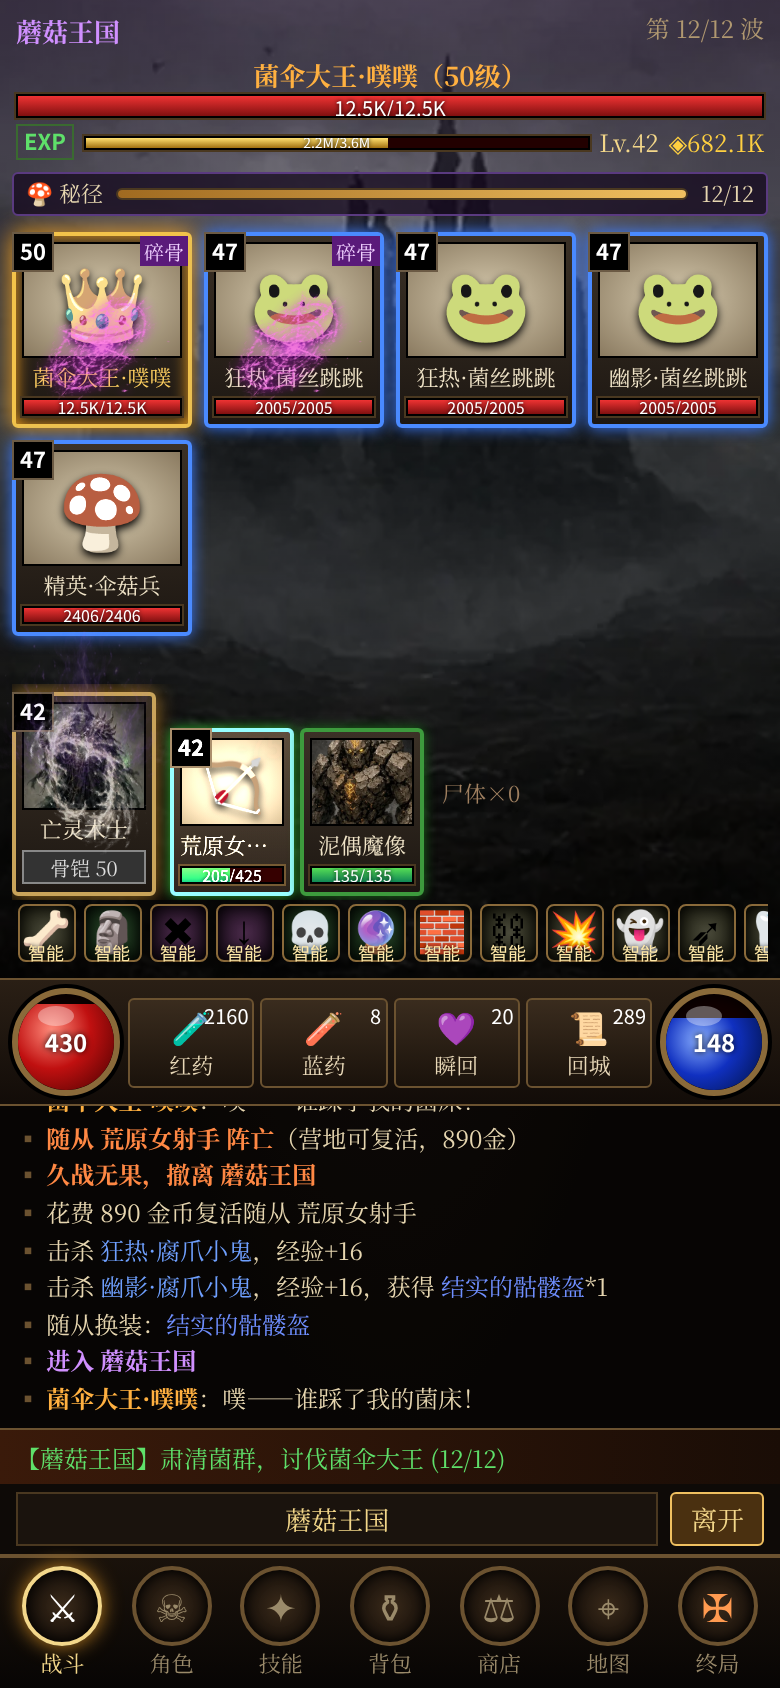
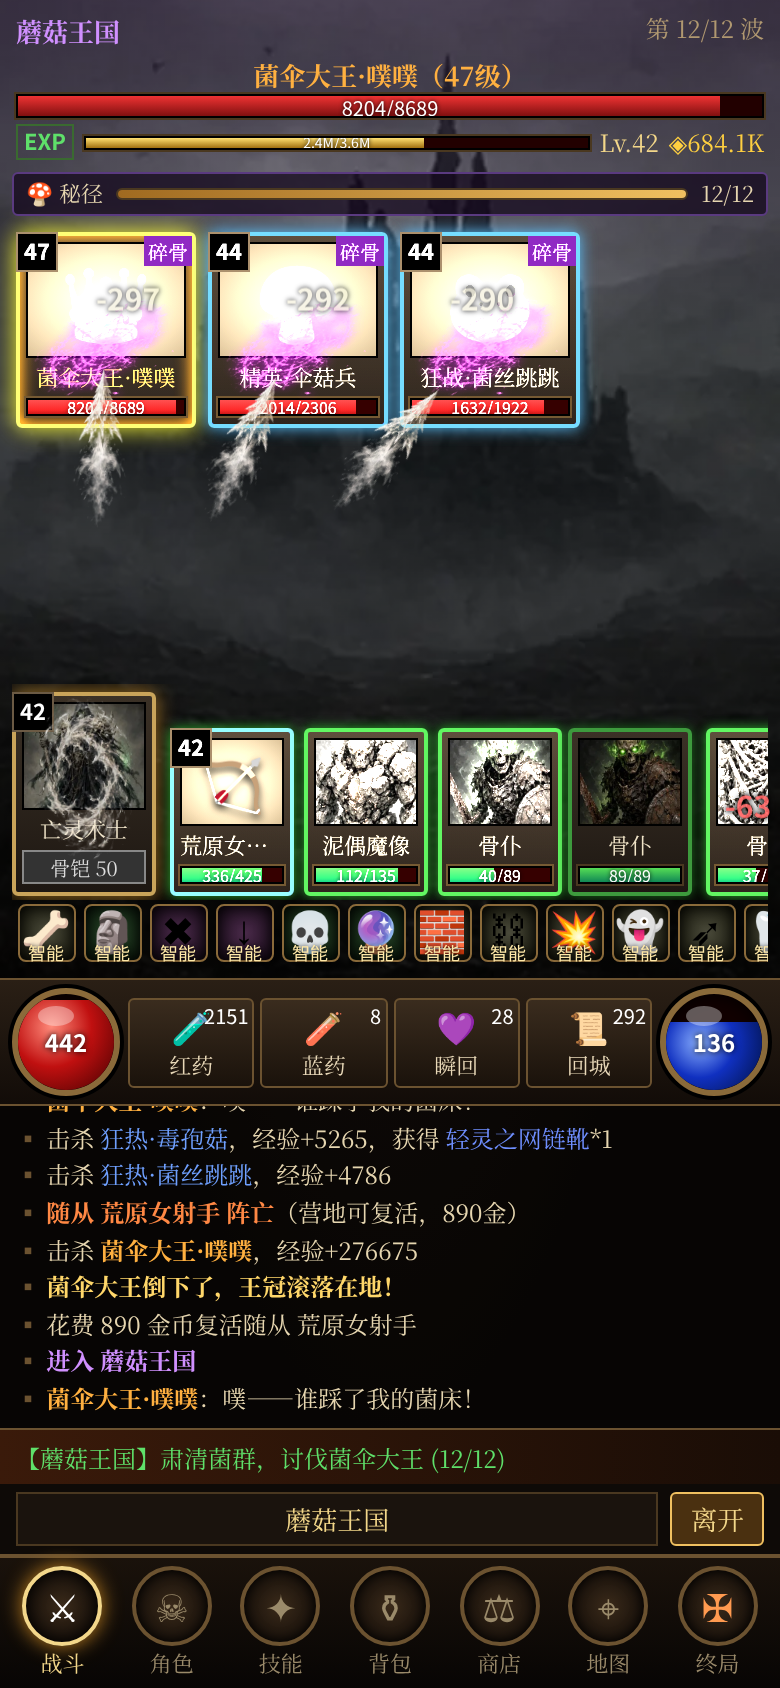
phase5-6c: 蘑菇王国难度微调、防卡死按血量进展判定

diff --git a/eg_secret.js b/eg_secret.js
@@ -5,9 +5,9 @@ function egSecOk(d=S.diff){return egDone(d,ACTS.length-1)}
 egOn('kill',(m,c)=>{if(c.mode||m.key!=='smith')return;const s=egSec();if(s.staff[c.d]||!egSecOk(c.d))return;s.staff[c.d]=1;
  log(`<b style="color:#c8a050">铸匠亡魂身后掉落了 ${EG_SECRET.staff.ic}${EG_SECRET.staff.n}……似乎能打开什么地方</b>`);toast('获得 '+EG_SECRET.staff.n);egRefresh()});
 function egSecretStart(){const s=egSec(),d=S.diff;if(!s.staff[d])return toast('缺少 '+EG_SECRET.staff.n);if(S.pot.tp<1)return toast('需要 1 张回城卷轴');S.pot.tp--;s.runs++;
- const ml=mlD(45,d)+2;const run={k:'secret',name:EG_SECRET.n,bg:'bg_act1',w:0,ml,
+ const ml=mlD(42,d)+2;const run={k:'secret',name:EG_SECRET.n,bg:'bg_act1',w:0,ml,
   spawn(){if(this.won){egLeave(1);toast('蘑菇王国已肃清');return}if(this.w>=EG_SECRET.waves)return;this.w++;const last=this.w===EG_SECRET.waves;
-   if(last){const b=mkMon(EG_SECRET.boss,ml+3);b.egKing=1;MON.push(b);log(`<b class="bossn">${b.n}</b>：噗——谁踩了我的菌床！`);for(let i=0;i<4;i++)MON.push(egSecMon(ml,'champ'));return}
+   if(last){const b=mkMon(EG_SECRET.boss,ml+3);b.egKing=1;MON.push(b);log(`<b class="bossn">${b.n}</b>：噗——谁踩了我的菌床！`);for(let i=0;i<2;i++)MON.push(egSecMon(ml,'champ'));return}
    const n=R(6,8);const ch=this.w%4===0;for(let i=0;i<n;i++)MON.push(egSecMon(ml,ch&&i<3?'champ':''));MON=MON.slice(0,8)},
   onKill(m){if(m.egKing){s.king++;egStat('king');log('<b class="quest">菌伞大王倒下了，王冠滚落在地！</b>');for(let i=0;i<2;i++)addBag(egLpApply(genItem(Math.min(99,ml+3),{q:5}),2));addBag(rollRune(ml+6));this.won=1}},
   onDie(){this.deaths=(this.deaths||0)+1;this.w=Math.max(0,this.w-1);if(this.deaths>=5){log('<b style="color:#f84">菌群太过凶猛，你被赶出了蘑菇王国</b>');egLeave(1)}},
@@ -22,7 +22,7 @@ function egSecLock(){const s=egSec();return Object.keys(s.staff).length?null:'??
 function egSecPage(){const s=egSec(),d=S.diff;return`<div class="gp"><h3>🍄 ${EG_SECRET.n} <span class="r dim">隐藏关卡</span></h3>
  <div class="egintro">枯手杖轻点地面，一圈蘑菇破土而出，围成一道小小的门。门后是喧闹的菌之王国——伞菇兵列队巡逻，毒孢菇四处喷雾，菌丝跳跳蹦来蹦去，而菌伞大王·噗噗正躺在王座上打呼。</div>
  <div class="row"><span>${EG_SECRET.staff.ic}${EG_SECRET.staff.n}</span><b>${DIFFS.map((D,i)=>`${D.n}${s.staff[i]?'✔':'✘'}`).join(' ')}</b></div>
- <div class="row"><span>当前难度怪物等级 / 波数</span><b>${mlD(45,d)+2} / ${EG_SECRET.waves}</b></div><div class="row"><span>寻宝加成 / 经验</span><b>+${EG_SECRET.mf}% / ×${EG_SECRET.xp}</b></div>
+ <div class="row"><span>当前难度怪物等级 / 波数</span><b>${mlD(42,d)+2} / ${EG_SECRET.waves}</b></div><div class="row"><span>寻宝加成 / 经验</span><b>+${EG_SECRET.mf}% / ×${EG_SECRET.xp}</b></div>
  <div class="row"><span>进入次数 / 讨伐大王</span><b>${s.runs} / ${s.king}</b></div>
  <div class="dim">消耗 1 张回城卷轴开启（手杖不消耗）。大王必掉 2 件暗金（威能几率翻倍）与高阶符文。各难度需分别找到手杖。</div>
  <div class="btns"><button class="btn gold" ${s.staff[d]&&!EGM?'':'disabled'} onclick="egSecretStart()">开启秘径（📜×1）</button></div></div>`}

diff --git a/eg_core.js b/eg_core.js
@@ -30,8 +30,8 @@ const _eg_goAct=goAct;goAct=function(a,d,q){if(EGM)egLeave(1);return _eg_goAct(a
 // 事件钩子（各子系统注册）
 const EG_HOOK={kill:[],clear:[],tick:[],sec:[],calc:[],pre:[],item:[],xp:[]};
 function egOn(k,f){EG_HOOK[k].push(f)}
-// 通用防卡死：特殊模式内 240 秒无击杀则离开
-egOn('sec',()=>{if(!EGM)return;const c=EG().clock;if(EGM._lk==null)EGM._lk=c;if(c-EGM._lk>240){log('<b style="color:#f84">久战无果，撤离 '+EGM.name+'</b>');egLeave(1)}});
+// 通用防卡死：特殊模式内 240 秒既无击杀、怪物总血量也无新低则离开
+egOn('sec',()=>{if(!EGM)return;const c=EG().clock;if(EGM._lk==null)EGM._lk=c;const hp=liveMon().reduce((a,m)=>a+m.hp/m.max,0);if(EGM._mh==null||hp<EGM._mh-0.005){EGM._mh=hp;EGM._lk=c}if(!liveMon().length)EGM._mh=null;if(c-EGM._lk>240){log('<b style="color:#f84">久战无果，撤离 '+EGM.name+'</b>');egLeave(1)}});
 const _eg_killMon=killMon;killMon=function(m){const ctx={d:S.diff,a:S.act,z:S.zone,mode:EGM};_eg_killMon(m);egStat('kills');if(m.boss)egStat('boss');if(EGM){EGM._lk=EG().clock;if(EGM.onKill)EGM.onKill(m)}for(const f of EG_HOOK.kill)f(m,ctx)};
 const _eg_zoneClear=zoneClear;zoneClear=function(){const ctx={d:S.diff,a:S.act,z:S.zone};_eg_zoneClear();egStat('clears');for(const f of EG_HOOK.clear)f(ctx)};
 let EG_secT=0;

diff --git a/data_endgame.js b/data_endgame.js
@@ -46,6 +46,6 @@ Object.assign(MONS,{
  shroom:{n:'伞菇兵',ic:'🍄',hp:60,dmg:[3,9],ar:40,def:20,exp:42,a:'m_shroom',res:{pois:50},eg:1},
  sporer:{n:'毒孢菇',ic:'🟣',hp:44,dmg:[2,8],ar:38,def:14,exp:44,ranged:1,el:'pois',a:'m_sporer',res:{pois:75},sk:['poisbreath'],eg:1},
  hopper:{n:'菌丝跳跳',ic:'🐸',hp:50,dmg:[4,10],ar:46,def:16,exp:40,spd:1.5,a:'m_hopper',res:{cold:30},eg:1}});
-Object.assign(BOSSES,{shroomking:{n:'菌伞大王·噗噗',ic:'👑',hp:900,dmg:[10,26],ar:120,def:80,exp:9000,a:'b_shroomking',res:{pois:75,fire:-25},sk:['charge','poisbreath'],eg:1}});
+Object.assign(BOSSES,{shroomking:{n:'菌伞大王·噗噗',ic:'👑',hp:650,dmg:[8,20],ar:120,def:80,exp:9000,a:'b_shroomking',res:{pois:75,fire:-25},sk:['charge','poisbreath'],eg:1}});
 const EG_SECRET={n:'蘑菇王国',staff:{n:'老园丁的枯手杖',ic:'🦯'},waves:12,mons:['shroom','sporer','hopper'],boss:'shroomking',
  hint:'流放者营地的老人们说：坍颓村的铸匠亡魂生前总替一位老园丁修补手杖……',xp:1.6,mf:150};
